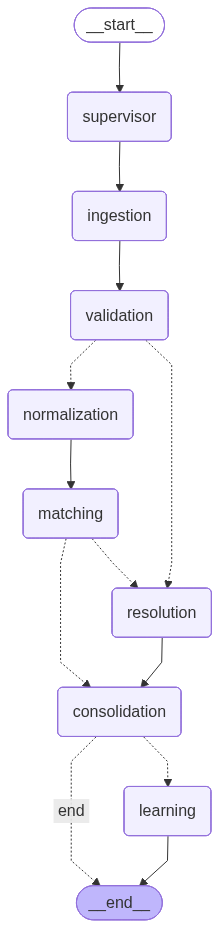
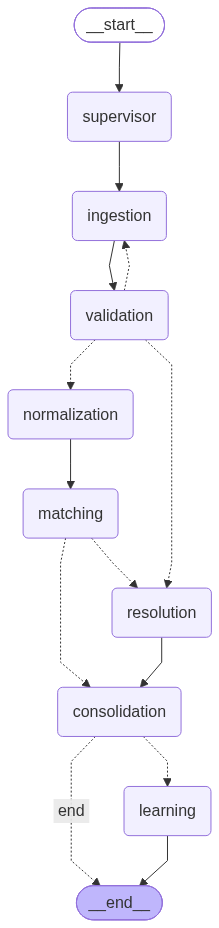
C18: architecture docs + runbook
docs/ARCHITECTURE.md: system overview (A/B/C layer boundaries), graph
shape with a diagram regenerated directly from the live compiled graph
(scripts_render_graph.py) rather than hand-drawn, a node-by-node table
noting what's real vs. still-placeholder (only supervisor remains
placeholder), the three gates' actual logic, idempotency/resume
semantics including the C16 bug, the full ReconState field table with
the "undeclared key gets silently dropped" gotcha explained (it's bitten
this repo twice), eval methodology, and an honest Known gaps section
(the close_ready/learning interaction, A11-13 only living on
intern-b/c, score_risk's untuned weights).

docs/RUNBOOK.md: every command in it was actually run against the
current codebase while writing this, not just written to look
plausible -- setup, running tests, running a real pipeline end to end,
resuming an interrupted run, reviewing/resolving an HITL exception,
approving a rule suggestion, generating a baseline report, regenerating
the diagram, and troubleshooting the three real bugs found tonight
(C16's resume bug, the undeclared-state-key gotcha, iCloud sync
slowness).

diff --git a/docs/ARCHITECTURE.md b/docs/ARCHITECTURE.md
@@ -1,0 +1,155 @@
+# Agentic Recon -- Architecture
+
+This document describes the system as it actually exists in the codebase today
+(through A13 / B14 / C17). It is regenerated/updated alongside the code, not
+written once and left to drift -- if you find a mismatch between this doc and
+`recon_platform/graph/build.py`, the code is the source of truth; file a fix
+here.
+
+## Overview
+
+Three tracks own three layers of one LangGraph pipeline:
+
+- **Data agents (A)** -- ingest raw transactions from CSV/API/SFTP sources,
+  validate them, normalize them (FX conversion, entity aliasing, reference
+  canonicalization). Lives in `datagents/`.
+- **Reasoning agents (B)** -- match book transactions against source
+  transactions (deterministic tools first, LLM escalation for hard cases,
+  memory-boosted calibration), classify what's left as exceptions, escalate
+  high-risk ones to a human, and mine recurring patterns into rule
+  suggestions that feed back into matching config. Lives in `reasoning/`.
+- **Platform (C)** -- the shared graph shape, state schema, checkpointing/
+  resume, HITL review queue, guardrails, observability, eval harness, and
+  everything that assembles A + B into one working system. Lives in
+  `recon_platform/`.
+
+## Graph shape
+
+![recon graph](graph/recon_graph.png)
+
+Regenerate this diagram directly from the live compiled graph whenever the
+node/edge structure changes, so it can never silently drift from the code:
+
+```bash
+python scripts_render_graph.py
+```
+
+### Nodes
+
+All nodes are real (call actual agent logic) except `supervisor`, which
+remains a placeholder -- it logs a message and passes state through. Nothing
+in the current scope needs supervisor-level planning/routing beyond the
+fixed graph shape below.
+
+| Node | Real since | What it does |
+|---|---|---|
+| `supervisor` | -- | Placeholder. Logs "Run planned." |
+| `ingestion` | A11 | Real ingestion from `book_source_configs`/`bank_source_configs` via `ingest_sources_with_metrics`. Book and bank are ingested via two separate calls and kept separate in state (`Transaction` has no field recording which named source it came from). Increments `retry_count` unconditionally -- see Gates below for why. Stays a pure pass-through (except the `retry_count` bump) when no configs are supplied, so synthetic test states that inject `book_transactions`/`issues` directly still work. |
+| `validation` | A11 | Real validation (`validate_transactions`) over the combined transaction set. Concatenates its issues onto whatever `ingestion` already put there -- `issues` has no LangGraph reducer, so returning it verbatim would silently replace ingestion's issues instead of adding to them. |
+| `normalization` | A11 | Real normalization (FX conversion, entity aliasing) via `normalize_transactions`, run separately for book and bank so `matching`'s `book_transactions`/`source_transactions` stay populated. Uses a module-level `AliasStore` so the alias cache (A9) persists across nodes and runs. |
+| `matching` | B11 | Real matching + exception classification via `run_match_subgraph` (B10): deterministic tools first, optional LLM escalation, memory-guarded calibration, exception classification on the leftovers. Also a pure pass-through when no `book_transactions`/`source_transactions` are present, for the same synthetic-test-state reason as `ingestion`. |
+| `resolution` | B11 | Real exception escalation via `escalate_exceptions` (B9): high-risk exceptions go to the shared review queue, low-risk ones auto-resolve. |
+| `consolidation` | C11/C14 | Builds a real `ReconReport` from `matched_count`/`unmatched_count`/`exceptions`. `close_ready` is computed from the *live* review queue (`pending_for_run`), not just whether exceptions were classified -- an auto-resolved exception never blocks close, an escalated-but-unresolved one does, even across a resumed HITL run. |
+| `learning` | B12/C12 | Mines this run's `match_results`/`exceptions` into `RuleSuggestion`s (B12), persisted to the shared `RuleStore`. Only reachable when `close_ready` is true, so exception-pattern mining never actually fires today -- a known, documented gap (see Known gaps below). |
+
+### Gates
+
+Three conditional edges decide routing; all are pure functions in
+`recon_platform/graph/routing.py`, independently unit-testable without
+running the graph:
+
+- **`validation_gate`** (after `validation`): no critical issue ->
+  `normalization`. A critical issue (severity `error` **and** `row_ref is
+  None` -- a batch-level failure like "source unreachable", not a single bad
+  row) retries `ingestion` up to `MAX_VALIDATION_RETRIES` times, then
+  escalates to `resolution`. A row-level error (a malformed CSV row, a
+  rejected validation finding -- `row_ref` set) never blocks the run; that's
+  expected noise in any real dataset, already excluded by the tool that
+  found it.
+- **`matched_gate`** (after `matching`): any unmatched transactions ->
+  `resolution`; fully matched -> `consolidation`.
+- **`close_ready_gate`** (after `consolidation`): `close_ready` -> `learning`;
+  otherwise -> `end`.
+
+### Idempotency and resume
+
+`recon_platform/graph/checkpointer.py`'s `run_pipeline(period,
+source_signature, checkpointer)` is the production entrypoint:
+
+- `run_id` is a deterministic hash of `(period, source_signature)` --
+  reprocessing the same period against the same source data always maps to
+  the same thread, never creates a duplicate run.
+- A completed run (`close_ready` true, no pending graph steps) is skipped
+  entirely on a second call.
+- An **interrupted** run (killed mid-flight, pending steps remain) resumes
+  from its last checkpoint via `graph.invoke(None, config=...)` -- continuing
+  a paused thread, not restarting it. Passing a fresh state object here
+  instead of `None` silently restarts the whole run from `START` and
+  double-processes every already-completed node; this was a real bug found
+  and fixed while building C16's chaos suite (`tests/test_chaos.py`).
+
+## State schema
+
+`recon_platform/state.py`'s `ReconState` is the single source of truth for
+every key any node reads or writes. This matters more than it sounds like it
+should: LangGraph builds one channel per declared schema field and **silently
+drops any key a node returns that isn't declared here** -- not a theoretical
+risk, it happened twice in this repo (`book_source_configs`/
+`bank_source_configs` went undeclared for a while, meaning the real
+configs-driven ingestion path never actually ran through a real
+`graph.invoke()` even though every test passed, because no test exercised
+that exact path end-to-end).
+
+| Field | Owner | Purpose |
+|---|---|---|
+| `run_id`, `period` | C | Identity of this run. |
+| `messages` | C | Append-only log (`Annotated` with a reducer -- the one field that *does* accumulate automatically). |
+| `issues` | A/C | Validation/ingestion problems. No reducer -- nodes must concatenate manually. |
+| `matched_count`, `unmatched_count`, `close_ready`, `retry_count` | B/C | Run-level counters and gate state. |
+| `source_configs`, `book_source_configs`, `bank_source_configs` | A | What to ingest. |
+| `transactions`, `validation_findings`, `normalized_transactions` | A | Ingestion/validation/normalization output. |
+| `book_transactions`, `source_transactions`, `match_results`, `unmatched_book`, `unmatched_source`, `exceptions` | B | Matching/exception output. |
+| `ingestion_metrics` | A | Per-source `ToolSpan` metrics (rows in/out, retries, duration). |
+| `report` | C | The final `ReconReport`. |
+| `rule_suggestions` | B/C | This run's mined `RuleSuggestion`s. |
+
+## Eval methodology
+
+- **Golden datasets**: `sample_data/book.csv` + `sample_data/bank_source.csv`
+  are the primary fixture -- hand-labeled, known expected matches/exceptions,
+  used across B10-B14, C11, C13, C16 tests. `demo_book.csv`/`demo_bank.csv`
+  back the standalone demo app.
+- **Metrics** (`recon_platform/eval/metrics.py`): `accuracy`,
+  `precision_recall` (C9); `hallucination_rate` -- fraction of matches
+  referencing a transaction id outside the real candidate set, should always
+  be `0.0` for the deterministic path (C15); `idempotency_check` -- wraps
+  `run_pipeline`'s skip-if-complete guarantee into a pass/fail check (C15).
+- **Baseline reports** (`recon_platform/eval/baseline.py`, C13): runs the
+  real graph E2E with a `GraphTracer` attached, captures auto-match rate,
+  exception count, latency, and token cost from the real `ReconReport`,
+  writes a versioned JSON+MD report (reusing C9's `write_report`).
+- **CI regression gate** (`tests/test_regression_gate.py`, C15): hard
+  thresholds (accuracy >= 0.9, hallucination 0.0, idempotent, latency
+  budget) against golden data. This test file *is* the gate -- CI
+  (`.github/workflows/ci.yml`) runs the full suite (`datagents/`,
+  `reasoning/`, `tests/`) on every push/PR, so a regression here fails CI
+  directly.
+- **Security scan** (`tests/test_c17_security.py`, C17): red-team tests
+  proving a prompt-injection payload in a transaction field never reaches an
+  LLM (asserts `gateway.usage.calls == 0`, not just that the output looks
+  fine), plus a permanent hardcoded-secret scan.
+
+## Known gaps (honest, not aspirational)
+
+- **`learning` never mines exception patterns in practice.** It's only
+  reachable when `close_ready` is true, which currently means "zero
+  exceptions this run" -- so by the time `learning` runs, `exceptions` is
+  always empty. Fixing this needs `close_ready` to mean "exceptions
+  resolved" more granularly than it does today, or `learning` to run at a
+  different point in the graph.
+- **A11-A13 exist only on `intern-b`/`intern-c`, not `intern-a`.** Intern A
+  pushed that work directly to `intern-b` rather than `intern-a`; anyone
+  checking out `intern-a` alone won't see it.
+- **`score_risk`'s weights (B8) were never tuned against real eval
+  feedback.** There's no historical outcome data yet in a fresh repo to
+  learn from; adjusting the numbers without that would be guessing.

diff --git a/docs/RUNBOOK.md b/docs/RUNBOOK.md
@@ -1,0 +1,141 @@
+# Runbook
+
+Every command below was actually run against the current codebase while
+writing this doc, not just written to look plausible. If one stops working,
+that's a real regression -- file it, don't just edit this doc to match.
+
+## Setup
+
+```bash
+git clone <repo-url> RecoFin
+cd RecoFin
+python3 -m venv .venv
+source .venv/bin/activate
+pip install -e ".[dev]"
+```
+
+Real LLM calls (`GroqLLMGateway`) need `GROQ_API_KEY` in your environment or
+a local `.env` (gitignored, never commit it). Everything in this runbook
+works without one -- `MockLLMGateway` and the deterministic-only paths don't
+need a real key.
+
+## Run the tests
+
+```bash
+pytest datagents/ reasoning/ tests/ -v   # full suite
+ruff check .                              # lint
+```
+
+CI (`.github/workflows/ci.yml`) runs exactly this on every push/PR.
+
+## Run a real pipeline end to end
+
+```python
+from pathlib import Path
+from datagents.schemas import SourceConfig, SourceType
+from recon_platform.graph.checkpointer import get_checkpointer, run_pipeline
+
+SAMPLE = Path("sample_data")
+FIELD_MAP = {"transaction_id": "txn_id", "value_date": "date", "ccy": "currency"}
+
+with get_checkpointer("checkpoints.db") as cp:
+    initial_state = {
+        "run_id": "my-run-1",
+        "period": "2026-01",
+        "messages": [], "issues": [],
+        "book_source_configs": [
+            SourceConfig(name="book", source_type=SourceType.CSV, location=str(SAMPLE / "book.csv")),
+        ],
+        "bank_source_configs": [
+            SourceConfig(
+                name="bank", source_type=SourceType.CSV,
+                location=str(SAMPLE / "bank_source.csv"), options={"field_map": FIELD_MAP},
+            ),
+        ],
+    }
+    result = run_pipeline("2026-01", "my-source-signature", cp, initial_state=initial_state)
+    report = result["state"]["report"]
+    print(report.matched_count, report.unmatched_count, report.close_ready)
+    # -> 3 1 False   (on the golden sample data)
+```
+
+Calling `run_pipeline` again with the same `(period, source_signature)`
+skips entirely (`result["skipped"] is True`) if the run already completed.
+
+## Resume an interrupted run
+
+If a run was killed mid-flight (process died, deploy restarted, whatever),
+just call `run_pipeline` again with the **same** `(period,
+source_signature)` and the **same** checkpointer db file. It resumes from
+the last checkpoint automatically -- nothing already completed re-runs. See
+`tests/test_chaos.py` for the exact mechanics and the bug this used to have.
+
+## Review and resolve an escalated exception (HITL)
+
+```python
+from recon_platform.hitl.review_queue import review_queue, pending_for_run
+from reasoning.agents.exception_escalation import resolve_exception
+
+pending_for_run("my-run-1")          # this run's still-open exceptions
+review_queue.pending()               # every run's still-open exceptions
+
+# result["state"]["exceptions"] holds the ExceptionRecord objects from the run above
+for exc in result["state"]["exceptions"]:
+    resolve_exception(exc, run_id="my-run-1", analyst_note="Confirmed with bank.")
+```
+
+A run can't be closed while it has pending exceptions --
+`recon_platform.hitl.close_gate.close_period(report)` raises
+`PrematureCloseError` until they're resolved.
+
+## Approve a mined rule suggestion
+
+Each completed run (with no pending exceptions) mines recurring
+tolerance/fuzzy/exception patterns into the shared `RuleStore`:
+
+```python
+from reasoning.rule_store import rule_store
+
+rule_store.pending()                 # suggestions awaiting a decision
+rule_store.approve(item_id=1)        # approve one (get the id from .pending())
+```
+
+An approved suggestion is picked up automatically by the **next** run's
+matching step -- no extra plumbing, no restart needed.
+
+## Generate a baseline metrics report
+
+```python
+from recon_platform.eval.baseline import run_baseline
+
+json_path, md_path = run_baseline(initial_state, output_dir="reports/")
+```
+
+Captures auto-match rate, exception count, latency, and token cost from a
+real graph run, writes versioned JSON+MD (one file pair per `run_id`, never
+overwritten).
+
+## Regenerate the architecture diagram
+
+```bash
+python scripts_render_graph.py
+```
+
+Writes `docs/graph/recon_graph.png` directly from the live compiled graph.
+Run this whenever `recon_platform/graph/build.py`'s node/edge structure
+changes, so the diagram in `ARCHITECTURE.md` can't silently drift from the
+code.
+
+## Troubleshooting
+
+- **A resumed run seems to re-process everything from scratch.** This was a
+  real bug (fixed in C16) -- if you see it again, check whether whatever's
+  calling `graph.invoke` is passing a fresh state object instead of `None`
+  for an already-interrupted thread.
+- **A node's output seems to vanish.** Check `recon_platform/state.py`'s
+  `ReconState` -- if the key isn't declared there, LangGraph silently drops
+  it. This has bitten this repo twice already (see `ARCHITECTURE.md`'s
+  Known gaps).
+- **Tests are slow or hang.** Almost certainly an iCloud-synced (or similar
+  cloud-synced) working directory turning local file reads into network
+  fetches. Move the repo to a plain local directory.
